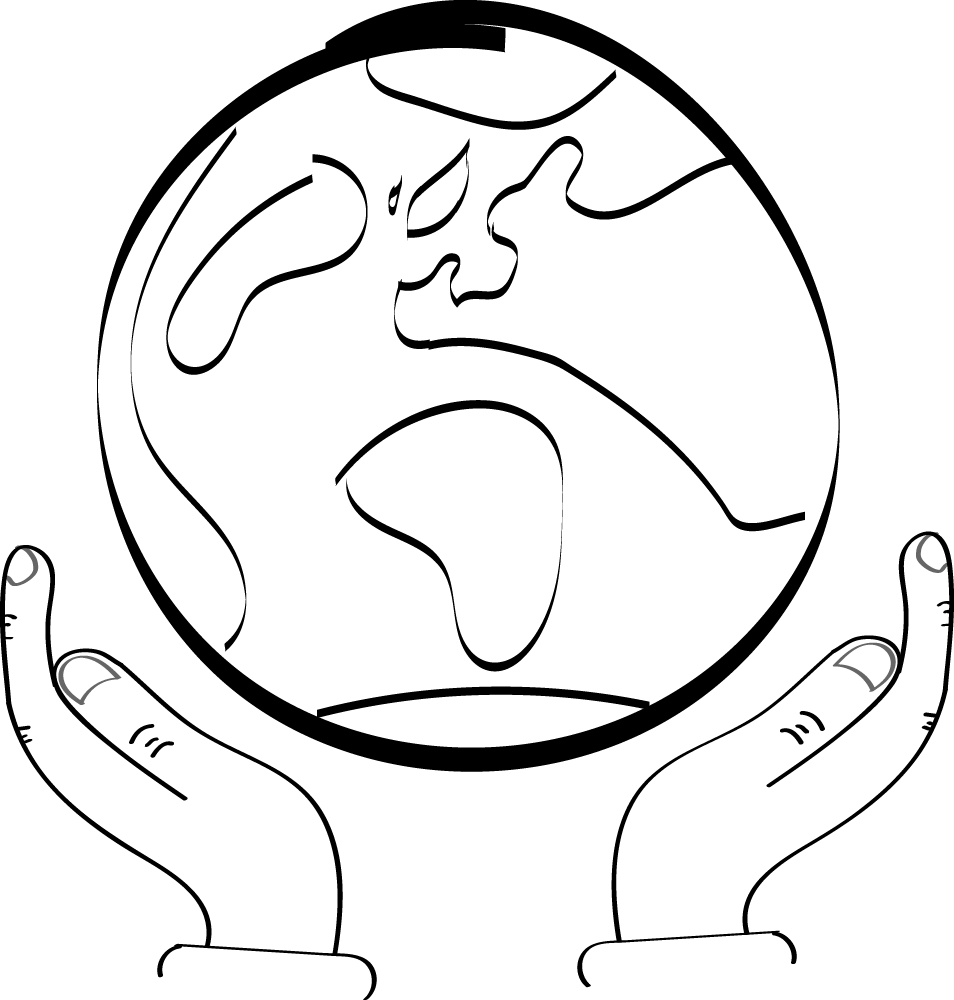
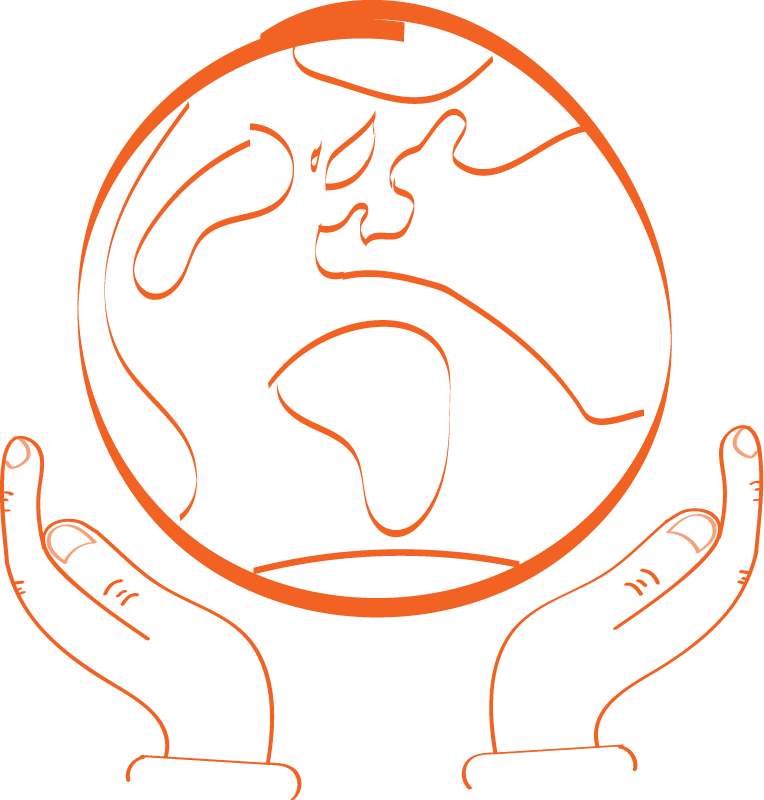
Illustrationer rettet til orange + finjusteringer i header og footer

diff --git a/medovate.html b/medovate.html
@@ -14,10 +14,10 @@
 <body>
     <!--HEADER-->
     <header>
-        <div id="headercontent">
+        <div class="headercontent">
             <!--Logo-div-->
-            <div>
-                <a href="index.html"><img src="" alt="Medova te logo som link til forsiden"></a>
+            <div id="medova_header">
+                <a href="index.html"><img src="img/medova_logo.png" alt="Medova te logo som link til forsiden"></a>
             </div>
 
             <!--Navigation-div-->
@@ -26,9 +26,8 @@
                     <!--Medova te med dropdown-->
                     <div class="dropdown">
                         <div>         
-                            <a href="medovate.html"><i class="fa-solid fa-caret-down"></i> Medova te</a> 
-                        </div>
-
+                            <a href="medovate.html"> <i class="fa-solid fa-caret-down"></i> Medova te</a> 
+                        </div> 
                         <div class="dropdown-content"> 
                             <ul> 
                                 <li><a href="#produkter">Produkter</a></li> 
@@ -97,7 +96,7 @@
         <section class="card">
 
             <div>
-                <img src="svg/tea_coffee.svg" alt="Mængden af koffein i to kopper te svarer til mængden i en kop kaffe">
+                <img src="img/tea_coffee.png" alt="Mængden af koffein i to kopper te svarer til mængden i en kop kaffe">
             </div>
             
             <div>
@@ -128,7 +127,7 @@
             </div>
                 
             <div class="illustration">
-                <img src="img/teapot_black.png" alt="Illustration af kedel, der koger">
+                <img src="img/boilingwater.png" alt="Illustration af kedel, der koger over ild">
             </div>
         </section>
 
@@ -137,7 +136,7 @@
         
         <section class="card">
             <div class="illustration">
-                <img src="img/pourtea_1.png" alt="illustration af tekande, der hælder te i tekop">
+                <img src="img/pour_tea.png" alt="illustration af tekande, der hælder te i tekop">
             </div>
 
             <div>

diff --git a/index.html b/index.html
@@ -14,10 +14,10 @@
 <body>
     <!--HEADER-->
     <header>
-        <div id="headercontent">
+        <div class="headercontent">
             <!--Logo-div-->
-            <div>
-                <a href="index.html"><img src="" alt="Medova te logo som link til forsiden"></a>
+            <div id="medova_header">
+                <a href="index.html"><img src="img/medova_logo.png" alt="Medova te logo som link til forsiden"></a>
             </div>
 
             <!--Navigation-div-->
@@ -56,24 +56,29 @@
 
     <!--FOOTER-->
     <footer>
-        <a href="index.html"><img src="" alt="Medova te logo som link til forsiden"></a>
-        <div id="list">
-            <ul>
-                <li><a href="#">Kontakt</a></li>
-                <li>Unilever Danmark <br>
-                    Ørestads Boulevard 73, <br>
-                    2300 København S, <br>
-                    tel. +45 70 27 77 85.</li>
-            </ul>
-                
-            <ul>
-                <li><a href="#">Unilever</a></li>
-                <li><a href="#">Persondata & Cookies</a></li>
-            </ul>
+        <div class="footercontent">
+            <div id="medova_footer">
+            <a href="index.html"><img src="img/medova_logo_hvid.png" alt="Medova te logo som link til forsiden"></a>
+            </div>
 
-            <ul>
-                <li><a href="#">Instagram</a></li>
-            </ul>
+            <div id="list">
+                <ul>
+                    <li><a href="#">Kontakt</a></li>
+                    <li>Unilever Danmark <br>
+                        Ørestads Boulevard 73, <br>
+                        2300 København S, <br>
+                        tel. +45 70 27 77 85.</li>
+                </ul>
+                    
+                <ul>
+                    <li><a href="#">Unilever</a></li>
+                    <li><a href="#">Persondata & Cookies</a></li>
+                </ul>
+
+                <ul>
+                    <li><a href="#">Instagram</a></li>
+                </ul>
+            </div>
         </div>
     </footer>
 

diff --git a/style.css b/style.css
@@ -5,6 +5,12 @@
     box-sizing: border-box;
 }
 
+/*Margin der giver luft til højre og venstre for indhold*/
+.headercontent, .footercontent, .card, .centercard{
+    margin-left: 20px;
+    margin-right: 20px;
+}
+
 /*Alle billeder skal have 100% width, så størrelsen styres af en container div.*/
 img{
     width: 100%;
@@ -60,12 +66,15 @@ header{
     z-index: 2;
 }
 
-#headercontent{
-    margin-left: 20px;
-    margin-right: 20px;
+.headercontent{
     margin-top: 34px;
     display: flex;
     justify-content: space-between;
+}
+
+#medova_header{
+    width: 20%;
+    margin-top: -20px;
 }
 
 /*Navigation*/
@@ -123,11 +132,18 @@ footer{
     height: 370px;
     width: 100%;
     background-color: #2D358C;
+    margin-top: -5px;
+}
+
+/*Størrelse på logo*/
+#medova_footer{
+    width: 30%;
 }
 
 #list{
     display: flex;
-    justify-content: space-around;
+    justify-content: space-between;
+    margin-right: 200px;
     margin-top: 40px;
 }
 
@@ -149,6 +165,7 @@ footer a{
 main{
     margin-top: 100px;
     background-color: #E9F3FB;
+    padding-bottom: 1px;
 }
 
 /*KORT*/
@@ -159,8 +176,6 @@ main{
     padding: 1.5%;
     border-radius: 15px;
     box-shadow: 0px 5px 5px rgba(45, 53, 140, 0.3);
-    margin-left: 20px;
-    margin-right: 20px;
 
     margin-top: 20px;
     margin-bottom: 50px;
@@ -207,3 +222,16 @@ main{
 }
 
 
+                                                                /*MEDIA QUERIES*/
+
+/*MOBIL*/ 
+@media screen and (max-width: 768px){
+
+}
+
+/*LAPTOP*/  
+@media screen and (min-width: 768px){
+    #burger_menu {
+        display: none;
+    }
+} 

diff --git a/historien-bag.html b/historien-bag.html
@@ -6,7 +6,7 @@
     <meta name="viewport" content="width=device-width, initial-scale=1.0">
     <title>Medova te - Historien bag</title>
     <link rel="stylesheet" href="style.css">
-    <link rel="icon" type="image/x-icon" href="img/logo.ico">
+    <link rel="icon" type="image/x-icon" href="img/logo_m.ico.png">
     <script src="https://kit.fontawesome.com/f0dbca7694.js" crossorigin="anonymous"></script>
     <style> @import url('https://fonts.googleapis.com/css2?family=Alice&family=Bebas+Neue&display=swap'); </style>
 </head>
@@ -14,10 +14,10 @@
 <body>
     <!--HEADER-->
     <header>
-        <div id="headercontent">
+        <div class="headercontent">
             <!--Logo-div-->
-            <div>
-                <a href="index.html"><img src="" alt="Medova te logo som link til forsiden"></a>
+            <div id="medova_header">
+                <a href="index.html"><img src="img/medova_logo.png" alt="Medova te logo som link til forsiden"></a>
             </div>
 
             <!--Navigation-div-->
@@ -67,8 +67,8 @@
         </section>
 
         <section class="card">
-            <div>
-                <img src="" alt="">
+            <div class="illustration">
+                <img src="img/teabags.png" alt="Illustration af tebreve og tekop">
             </div>
 
             <div>

diff --git a/goer-en-forskel.html b/goer-en-forskel.html
@@ -14,10 +14,10 @@
 <body>
     <!--HEADER-->
     <header>
-        <div id="headercontent">
+        <div class="headercontent">
             <!--Logo-div-->
-            <div>
-                <a href="index.html"><img src="" alt="Medova te logo som link til forsiden"></a>
+            <div id="medova_header">
+                <a href="index.html"><img src="img/medova_logo.png" alt="Medova te logo som link til forsiden"></a>
             </div>
 
             <!--Navigation-div-->
@@ -55,7 +55,7 @@
                 <h2>Drømmer du også om en bæredygtig verden?</h2>
                 <p>Og har du en idé til et tiltag, som vi alle kan gøre? Vi vil elske at høre dine geniale idéer! - Store som små! Så del dem <br> med venner, verden og os på de sociale medier og brug taggene <br>
                     <br>
-                    #MedovaTe #ViGørEnForskel.
+                    <a href="#"> #MedovaTe #ViGørEnForskel</a>.
                 </p>
             </div>
         </section>

diff --git a/baeredygtig-produktion.html b/baeredygtig-produktion.html
@@ -14,10 +14,10 @@
 <body>
     <!--HEADER-->
     <header>
-        <div id="headercontent">
+        <div class="headercontent">
             <!--Logo-div-->
-            <div>
-                <a href="index.html"><img src="" alt="Medova te logo som link til forsiden"></a>
+            <div id="medova_header">
+                <a href="index.html"><img src="img/medova_logo.png" alt="Medova te logo som link til forsiden"></a>
             </div>
 
             <!--Navigation-div-->
